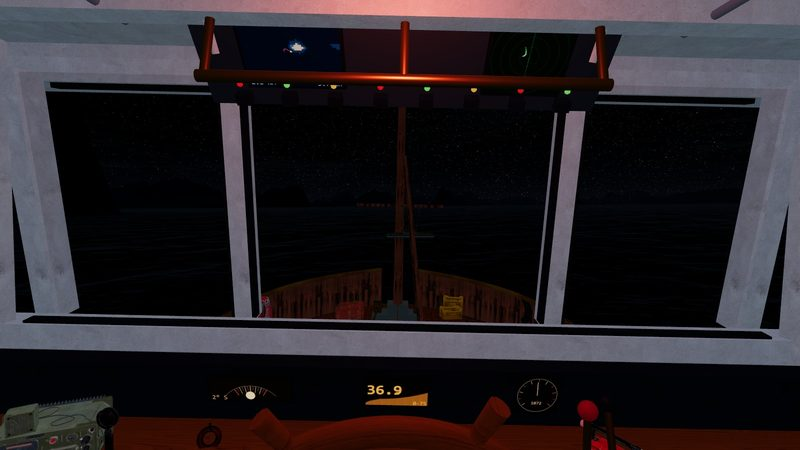
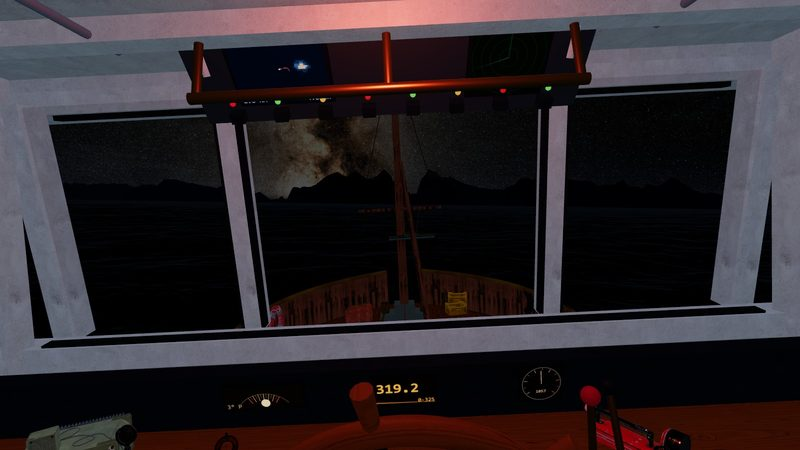
Trawler: the Milky Way, from the same NASA map the repo already ships
The night sky had the real Hipparcos catalogue and the real LRO moon but
nothing behind them, so it read as a dusting of points over a bare
atmosphere. Hangar draws NASA's Deep Star Maps 2020 and the older scenes at
least paint a band; this one had neither, and I had ported Hangar's star and
moon code and left its Milky Way behind.

html/assets/milkyway.webp is the starless equatorial map from the same NASA
SVS release (the Hipparcos and Tycho stars taken back out of it, so the bright
ones are not drawn twice), packed by tools/prepare-sky.py to 4096 x 2048 and
4 MB rather than Hangar's 8192 x 4096 and 38 MB: the sky here is a strip seen
through a window, not the whole frame.

It turns with the stars. The sphere's local frame is the ICRS one with y and z
exchanged, which falls out of three's SphereGeometry putting u = 0 at local
(-1, 0, 0) against the map putting right ascension a at u = 0.5 - a / 2pi;
setClock multiplies that by the same equatorial-to-world matrix the stars and
the moon already use. Checked end to end rather than by eye: a world direction
run back through the mesh's own matrix lands on the galactic centre at
u 0.760, v 0.661 reading 196 of 255, on the two galactic poles reading 32 and
36, and on Carina and Cygnus in between - and the packer prints the same for
the image on disk, where mean brightness falls from 170 at the galactic plane
to 37 at the poles. So at latitude 62 in September the band lies up through
[…]

diff --git a/trawler/html/js/sky.js b/trawler/html/js/sky.js
@@ -540,6 +540,31 @@ void main() {
 }
 `;
 
+// The brightness of the Milky Way map's stored value, on the screen, before the exposure divides
+// it. The map holds radiance / 0.2 sRGB-encoded (trawler/tools/prepare-sky.py).
+//
+// Set by measurement. On a moonless night at this gain, looking at Cygnus 54 degrees up: the
+// frame's median pixel is 4 of 255 and its ninetieth percentile 16, against 3.3 and 10.3 for a
+// frame the same size 36 degrees off the galactic plane. Turn the band off and the same frame
+// falls to 0.23, so out here it is the Milky Way, not the airglow, that lights the night sky -
+// which is what a sea with no coast to windward actually looks like. The map's own plane-to-pole
+// ratio of 4.4 survives into the render, and nothing in the band is near clipping.
+const MW_GAIN = 0.075;
+
+/**
+ * The Milky Way sphere's own frame, as a matrix taking its local axes to ICRS. three's
+ * SphereGeometry wraps u round its local +y and puts u = 0 at local (-1, 0, 0); the map puts
+ * right ascension a at u = 0.5 - a / 2pi with north at the top. Equating the two: local +y is the
+ * north celestial pole (ICRS +z), and the local x and z axes are ICRS x and y. So the frame is the
+ * identity with y and z exchanged, and setClock multiplies it by the equatorial-to-world matrix.
+ */
+const MW_FRAME = new THREE.Matrix4().set(
+  1, 0, 0, 0,
+  0, 0, 1, 0,
+  0, 1, 0, 0,
+  0, 0, 0, 1,
+);
+
 // Stars: the Hipparcos catalogue, each at its measured place, V magnitude and B-V colour. The
 // brightness step is 1.5x a magnitude rather than the true 2.512x, so the naked-eye stars stand
 // out while the faint ones still dust the sky (as Hangar's do).
@@ -651,6 +676,7 @@ export class Sky {
     this.dayTime = 0; // 0..1 of the day; set by setClock
     this.cycling = true;
     this.buildDome();
+    this.buildMilkyWay(opts.assetBase);
     this.buildMoon(opts.assetBase);
     if (opts.stars) this.buildStars(opts.stars);
 
@@ -738,6 +764,62 @@ export class Sky {
     this.scene.add(this.stars);
   }
 
+  /**
+   * The Milky Way: NASA's Deep Star Maps 2020, the band with the Hipparcos and Tycho stars taken
+   * back out of it, so it lies under the catalogue stars instead of drawing the bright ones twice.
+   *
+   * The map is equirectangular in equatorial (ICRS) coordinates - RA 0 down the middle with RA
+   * rising to the left, north along the top row - and three's SphereGeometry lays its own uvs out
+   * so that u = 0 is the ICRS direction (-1, 0, 0) and u rises the other way round. Working that
+   * through, a texel at right ascension a sits at u = 0.5 - a / 2pi, and the sphere's local frame
+   * is the ICRS one with y and z swapped. MW_FRAME is that swap; setClock multiplies it by the
+   * same equatorial-to-world matrix the stars and the moon use, so all three turn together.
+   */
+  buildMilkyWay(assetBase) {
+    const base = assetBase ?? new URL('../assets/', import.meta.url).href;
+    this.mwMap = new THREE.TextureLoader().load(base + 'milkyway.webp', () => {
+      if (this.milkyWay) this.milkyWay.visible = true;
+      this.applyExposure();
+    });
+    this.mwMap.colorSpace = THREE.SRGBColorSpace;
+    this.mwMap.anisotropy = 8;
+    this.mwMap.wrapS = THREE.RepeatWrapping;
+    this.mwMat = new THREE.ShaderMaterial({
+      uniforms: { uMap: { value: this.mwMap }, uGain: { value: 0 } },
+      depthWrite: false, depthTest: true, transparent: true, blending: THREE.AdditiveBlending,
+      side: THREE.BackSide,
+      vertexShader: /* glsl */ `
+        varying vec2 vUv; varying vec3 vDir;
+        void main() {
+          vUv = uv;
+          vDir = mat3( modelMatrix ) * position;
+          vec4 p = projectionMatrix * vec4( mat3( viewMatrix ) * vDir, 1.0 );
+          p.z = p.w * 0.999995;
+          gl_Position = p;
+        }`,
+      fragmentShader: /* glsl */ `
+        uniform sampler2D uMap; uniform float uGain;
+        varying vec2 vUv; varying vec3 vDir;
+        void main() {
+          // Below the horizon there is sea, not sky - the same cut the stars take.
+          float above = smoothstep( -0.02, 0.03, normalize( vDir ).y );
+          gl_FragColor = vec4( texture2D( uMap, vUv ).rgb * uGain * above, 1.0 );
+          #include <tonemapping_fragment>
+          #include <colorspace_fragment>
+        }`,
+    });
+    this.milkyWay = new THREE.Mesh(new THREE.SphereGeometry(1, 96, 48), this.mwMat);
+    this.milkyWay.frustumCulled = false;
+    this.milkyWay.matrixAutoUpdate = false;
+    this.milkyWay.visible = false;
+    // After the sky dome (900), which is opaque, and with the stars and the moon over it.
+    this.milkyWay.renderOrder = 900.5;
+    this.milkyWay.layers.set(LAYER.DEFAULT);
+    this.milkyWay.layers.enable(LAYER.WORLD);
+    this.milkyWay.layers.enable(LAYER.SKYONLY);
+    this.scene.add(this.milkyWay);
+  }
+
   buildMoon(assetBase) {
     const base = assetBase ?? new URL('../assets/', import.meta.url).href;
     const loader = new THREE.TextureLoader();
@@ -820,6 +902,10 @@ export class Sky {
     G.uDayTime.value = this.dayTime;
 
     if (this.stars) this.stars.matrix.copy(mat);
+    if (this.milkyWay) {
+      this.milkyWay.matrix.copy(mat).multiply(MW_FRAME);
+      this.milkyWay.matrixWorldNeedsUpdate = true;
+    }
     this.applyLights();
   }
 
@@ -989,6 +1075,14 @@ export class Sky {
       this.starMat.uniforms.uStarCull.value = 0.0015 / e;
       this.stars.visible = this.starMat.uniforms.uStarGain.value * e > 0.012;
     }
+    if (this.mwMat) {
+      // The band washes out faster than the stars do: a star is a point and survives a brightening
+      // sky for a while, where the Milky Way is a low-contrast smear over a large solid angle and
+      // is the first thing to go. Hence the same wash raised to a power.
+      const wash = clamp01(1 - smoothstep(0.0012, 0.03, lum));
+      this.mwMat.uniforms.uGain.value = (MW_GAIN * wash * wash) / e;
+      if (this.milkyWay) this.milkyWay.visible = !!this.mwMap?.image && this.mwMat.uniforms.uGain.value * e > 0.0006;
+    }
     if (this.moon) {
       const my = this.moonDir?.y ?? -1;
       // The moon is bright enough to stay visible by day, but it should never bloom at night.
@@ -1014,6 +1108,7 @@ export class Sky {
     this.domeMat.dispose();
     this.scene.remove(this.dome);
     if (this.stars) { this.stars.geometry.dispose(); this.starMat.dispose(); this.scene.remove(this.stars); }
+    if (this.milkyWay) { this.milkyWay.geometry.dispose(); this.mwMat.dispose(); this.mwMap?.dispose(); this.scene.remove(this.milkyWay); }
     if (this.moon) {
       this.moon.geometry.dispose();
       this.moonMat.dispose();

diff --git a/trawler/html/index.html b/trawler/html/index.html
@@ -13,31 +13,31 @@
 { "imports": {
   "three": "https://cdn.jsdelivr.net/npm/three@0.170.0/build/three.module.js",
   "three/addons/": "https://cdn.jsdelivr.net/npm/three@0.170.0/examples/jsm/",
-  "./js/app.js": "./js/app.js?v=10",
-  "./js/scene.js": "./js/scene.js?v=10",
-  "./js/util.js": "./js/util.js?v=10",
-  "./js/shaders.js": "./js/shaders.js?v=10",
-  "./js/governor.js": "./js/governor.js?v=10",
-  "./js/post.js": "./js/post.js?v=10",
-  "./js/sky.js": "./js/sky.js?v=10",
-  "./js/ocean.js": "./js/ocean.js?v=10",
-  "./js/oceanspec.js": "./js/oceanspec.js?v=10",
-  "./js/seastate.js": "./js/seastate.js?v=10",
-  "./js/waves.js": "./js/waves.js?v=10",
-  "./js/boat.js": "./js/boat.js?v=10",
-  "./js/mathutil.js": "./js/mathutil.js?v=10",
-  "./js/fft.js": "./js/fft.js?v=10",
-  "./js/nav.js": "./js/nav.js?v=10",
-  "./js/terrain.js": "./js/terrain.js?v=10",
-  "./js/flora.js": "./js/flora.js?v=10",
-  "./js/pilot.js": "./js/pilot.js?v=10",
-  "./js/instruments.js": "./js/instruments.js?v=10",
-  "./js/deck.js": "./js/deck.js?v=10",
-  "./js/glass.js": "./js/glass.js?v=10",
-  "./js/wake.js": "./js/wake.js?v=10",
-  "./js/wildlife.js": "./js/wildlife.js?v=10",
-  "./js/materials.js": "./js/materials.js?v=10",
-  "./js/assets.js": "./js/assets.js?v=10"
+  "./js/app.js": "./js/app.js?v=11",
+  "./js/scene.js": "./js/scene.js?v=11",
+  "./js/util.js": "./js/util.js?v=11",
+  "./js/shaders.js": "./js/shaders.js?v=11",
+  "./js/governor.js": "./js/governor.js?v=11",
+  "./js/post.js": "./js/post.js?v=11",
+  "./js/sky.js": "./js/sky.js?v=11",
+  "./js/ocean.js": "./js/ocean.js?v=11",
+  "./js/oceanspec.js": "./js/oceanspec.js?v=11",
+  "./js/seastate.js": "./js/seastate.js?v=11",
+  "./js/waves.js": "./js/waves.js?v=11",
+  "./js/boat.js": "./js/boat.js?v=11",
+  "./js/mathutil.js": "./js/mathutil.js?v=11",
+  "./js/fft.js": "./js/fft.js?v=11",
+  "./js/nav.js": "./js/nav.js?v=11",
+  "./js/terrain.js": "./js/terrain.js?v=11",
+  "./js/flora.js": "./js/flora.js?v=11",
+  "./js/pilot.js": "./js/pilot.js?v=11",
+  "./js/instruments.js": "./js/instruments.js?v=11",
+  "./js/deck.js": "./js/deck.js?v=11",
+  "./js/glass.js": "./js/glass.js?v=11",
+  "./js/wake.js": "./js/wake.js?v=11",
+  "./js/wildlife.js": "./js/wildlife.js?v=11",
+  "./js/materials.js": "./js/materials.js?v=11",
+  "./js/assets.js": "./js/assets.js?v=11"
 } }
 </script>
 </head>
@@ -73,6 +73,6 @@
 <div id="hint">Move the mouse to look around the pilot house · click the sea to alter course · click a lever, switch or screen to work it</div>
 <div id="loadbar" role="progressbar" aria-label="Loading assets" aria-valuemin="0" aria-valuemax="100" aria-valuenow="0"></div>
 <div id="error" hidden></div>
-<script type="module" src="js/app.js?v=10"></script>
+<script type="module" src="js/app.js?v=11"></script>
 </body>
 </html>

diff --git a/trawler/tools/prepare-sky.py b/trawler/tools/prepare-sky.py
@@ -1,0 +1,89 @@
+#!/usr/bin/env python3
+"""Turn NASA's starless Milky Way map into the WebP the page loads (needs numpy, Pillow, OpenEXR).
+
+    python trawler/tools/prepare-sky.py [--size 4096]
+
+Input, downloaded by hand into trawler/tools/raw/sky/ (git-ignored):
+
+    milkyway_2020_4k.exr    NASA SVS Deep Star Maps 2020, the Milky Way with the Hipparcos and
+                            Tycho stars taken out, in equatorial (ICRS) coordinates, 4096 x 2048
+                            https://svs.gsfc.nasa.gov/4851/
+
+Output (committed):
+
+    html/assets/milkyway.webp   4096 x 2048 equirectangular, RA 0 at the centre with RA rising to
+                                the left, north at the top row, linear radiance / MW_SCALE stored
+                                sRGB-encoded.
+
+The stars in this scene are the Hipparcos catalogue drawn as points, so the starless version of the
+map is the one that is wanted: the other one would draw the bright stars a second time, as blurs
+under the real ones.
+
+Why the top row is north and no flip is applied. three's SphereGeometry puts uv.y = 1 at +y, and a
+THREE.Texture uploads with flipY = true, which maps the image's top row to v = 1. So an image with
+north at the top arrives at the top of the sphere. (Hangar's copy is KTX2, which cannot be flipped
+at upload, so its encoder flips the rows instead; this one does not need to.)
+
+MW_SCALE is the radiance that is stored as 1.0. It is Hangar's number, and it is a clip rather than
+a normalisation: the brightest hundredth of a per cent of the map goes over.
+"""
+import os
+import sys
+
+import numpy as np
+from PIL import Image
+
+HERE = os.path.dirname(os.path.abspath(__file__))
+RAW = os.path.join(HERE, 'raw', 'sky')
+OUT = os.path.join(HERE, '..', 'html', 'assets')
+
+MW_SCALE = 0.2
+
+
+def srgb(x):
+    """Linear to sRGB, the exact piecewise curve."""
+    x = np.clip(x, 0.0, 1.0)
+    return np.where(x <= 0.0031308, x * 12.92, 1.055 * np.power(x, 1.0 / 2.4) - 0.055)
+
+
+def main(size=4096):
+    import OpenEXR
+
+    src = os.path.join(RAW, 'milkyway_2020_4k.exr')
+    if not os.path.exists(src):
+        sys.exit('missing %s - see the docstring for where to download it' % src)
+    rgb = OpenEXR.File(src).channels()['RGB'].pixels.astype(np.float32)
+    h, w = rgb.shape[:2]
+    over = float((rgb.max(axis=2) > MW_SCALE).mean())
+    print('  read %d x %d, max %.4f, %.4f%% of texels clip at MW_SCALE %.2f'
+          % (w, h, rgb.max(), over * 100, MW_SCALE))
+
+    img = Image.fromarray(np.round(srgb(rgb / MW_SCALE) * 255).astype(np.uint8), 'RGB')
+    if img.width != size:
+        img = img.resize((size, size // 2), Image.LANCZOS)
+    os.makedirs(OUT, exist_ok=True)
+    dst = os.path.join(OUT, 'milkyway.webp')
+    img.save(dst, 'WEBP', quality=92, method=6)
+    print('  assets/milkyway.webp: %d x %d, %.2f MB' % (img.width, img.height, os.path.getsize(dst) / 1e6))
+
+    # The galactic centre is at RA 17h45m40s, dec -28.94, and it is by a long way the brightest
+    # part of the map. Finding it where it belongs is what says the image's own convention - RA 0
+    # at the centre, RA rising to the left, north at the top - is the one this file assumes.
+    ra, dec = (17 + 45 / 60 + 40 / 3600) * 15.0, -28.94
+    u = (0.5 - ra / 360.0) % 1.0
+    v = (90.0 - dec) / 180.0
+    a = np.asarray(img.convert('L'), dtype=np.float32)
+    gy, gx = int(v * a.shape[0]), int(u * a.shape[1])
+    patch = a[max(gy - 24, 0):gy + 24, max(gx - 24, 0):gx + 24].mean()
+    iy, ix = np.unravel_index(int(np.argmax(a)), a.shape)
+    print('  galactic centre expected at u %.3f v %.3f (px %d, %d): mean %.0f of 255' % (u, v, gx, gy, patch))
+    print('  brightest texel in the map: px %d, %d -> RA %.1f dec %+.1f'
+          % (ix, iy, ((0.5 - ix / a.shape[1]) % 1.0) * 360.0, 90.0 - 180.0 * iy / a.shape[0]))
+    print('  map mean %.1f, galactic-centre patch is %.1fx the mean' % (a.mean(), patch / max(a.mean(), 1e-6)))
+
+
+if __name__ == '__main__':
+    n = 4096
+    if '--size' in sys.argv:
+        n = int(sys.argv[sys.argv.index('--size') + 1])
+    main(n)

diff --git a/trawler/tools/README.md b/trawler/tools/README.md
@@ -56,12 +56,25 @@ for a in seadogs_compass:compass vintage_radio_transceiver:vhf binoculars:binocu
   node $T/fetch.mjs model "${a%%:*}" "${a##*:}"
 done
 python $T/prepare-models.py            # raw/models/* -> html/assets/models/*
+
+# The Milky Way: NASA SVS Deep Star Maps 2020, the starless equatorial map, public domain.
+mkdir -p $T/raw/sky
+curl -L -o $T/raw/sky/milkyway_2020_4k.exr \
+  https://svs.gsfc.nasa.gov/vis/a000000/a004800/a004851/milkyway_2020_4k.exr
+python $T/prepare-sky.py               # raw/sky/*.exr -> html/assets/milkyway.webp
 ```
+
+`prepare-sky.py` needs an EXR reader: `pip install OpenEXR`. It prints where it finds the galactic
+centre in the packed image, which is the check that the map's own convention (RA 0 at the centre,
+RA rising to the left, north along the top) is the one the page assumes.
 
 Each `fetch.mjs` run records the asset's name, author, licence and source URL in
 `html/assets/manifest.json`, which is what the README's credits table mirrors and what the page reads
 at load time. The sky's two moon maps and `html/data/stars.bin` are copied from the other scenes in
-this repository rather than refetched; their provenance is in the README.
+this repository rather than refetched; their provenance is in the README. `milkyway.webp` is built
+here, from the same NASA release Hangar uses, at a quarter of Hangar's width: the sky in this scene
+is a strip seen through a window rather than the whole frame, so 4096 x 2048 is enough and it costs
+4 MB instead of 38.
 
 ## What each script does
 
@@ -71,6 +84,7 @@ this repository rather than refetched; their provenance is in the README.
 | `manifest-lib.mjs` | the shared bits: paths, slugs, the manifest read/write, HTTP with retries |
 | `pack.py` | a raw material folder to the three WebP maps the page loads: `color` (sRGB, quality 92), `normal` (lossless — a normal map is a vector field and lossy chroma puts facets in it), `orm` (AO / roughness / metalness packed into R / G / B, quality 95) |
 | `prepare-models.py` | a raw glTF prop to `html/assets/models/<name>/`, with its PNG maps converted to WebP and the glTF's image URIs repointed. The geometry is left exactly as downloaded: these are a handful of objects seen close up, not a forest |
+| `prepare-sky.py` | NASA's starless Milky Way EXR to `html/assets/milkyway.webp`: linear radiance divided by 0.2 and sRGB-encoded, 4096 x 2048, north along the top row (no flip, because a `THREE.Texture` uploads with `flipY` and SphereGeometry puts v = 1 at +y) |
 
 Height maps are deliberately not packed. Hangar's lesson was that parallax on a surface seen at a
 grazing angle smears and shimmers, and that relief the camera gets close to is better built as
@@ -86,6 +100,7 @@ looked at:
 | `trawler.propSizes()` | the bounding box of every scanned prop, in metres, in the pilot house's own frame. A prop whose numbers do not read like the real object is placed or scaled wrong |
 | `trawler.verifyOcean()` | the sea the GPU draws against the sea the hull rides, at random points |
 | `trawler.shaderErrors()` | any shader that failed to compile, by name |
+| `scene.sky.skyMatrix`, `scene.sky.milkyWay.matrix` | the equatorial-to-world matrix and the band's own frame: invert the second and a world direction comes back as a texel of the map, which is how the band's orientation was checked against the galactic centre and the two galactic poles |
 | `trawler.bench(n)` | milliseconds a frame, averaged over n frames |
 | `trawler.look(x, y, z, yaw, pitch, fov)` / `trawler.at(...)` | puts the camera somewhere and renders one frame |
 | `trawler.run(seconds)` | steps the simulation at 1/60 s without waiting for real time |

diff --git a/trawler/README.md b/trawler/README.md
@@ -114,9 +114,20 @@ the stars, the moon, the instruments, the nav lights, the channel marks — is s
 brightness on the screen and divided by that exposure, because a lamp that is right at noon is a
 white hole at midnight otherwise.
 
-Stars are the Hipparcos catalogue at their measured positions, magnitudes and colours. The moon is
-the Lunar Reconnaissance Orbiter's colour mosaic and its height model, with the real libration and
-phase. Cumulus is a volumetric march; cirrus is a sheet above it; both are lit by the same sun.
+Stars are the Hipparcos catalogue at their measured positions, magnitudes and colours. Behind them
+is NASA's Deep Star Maps 2020 — the real Milky Way, built from Gaia DR2, with the Hipparcos and
+Tycho stars taken back out of it so the bright ones are not drawn twice. It is turned by the same
+equatorial-to-world matrix as the stars and the moon, so the band stands where it really stands: at
+latitude 62 in September it lies up through Cygnus in the west after midnight, and the galactic
+centre never clears the horizon. The moon is the Lunar Reconnaissance Orbiter's colour mosaic and
+its height model, with the real libration and phase. Cumulus is a volumetric march; cirrus is a
+sheet above it; both are lit by the same sun.
+
+How bright the band is, checked rather than chosen: looking at Cygnus 54 degrees up on a moonless
+night, the frame's median pixel is 4 of 255 and its ninetieth percentile 16, against 3.3 and 10.3
+for a frame the same size 36 degrees off the galactic plane; with the band switched off the same
+frame falls to 0.23, which is to say that out here it is the Milky Way and not the airglow that
+lights the night sky. It costs 0.3 ms a frame.
 
 ## The fjord
 
@@ -218,7 +229,8 @@ every surface in the house is within two metres of the viewer.
 ## Credits
 
 Every asset the page loads is listed in `html/assets/manifest.json` with its source, author and
-licence; this table mirrors it. Thanks to Poly Haven and ambientCG for the CC0 scans, to NASA's Scientific
+licence; this table mirrors it. Thanks to Poly Haven and ambientCG for the CC0 scans, to NASA GSFC's
+Scientific Visualization Studio (and ESA/Gaia/DPAC) for the Milky Way, to NASA's Scientific
 Visualization Studio for the CGI Moon Kit, and to ESA's Hipparcos mission (via NASA HEASARC) for the
 stars.
 
@@ -259,6 +271,7 @@ stars.
 | Model | `thermos` | Plastic Thermos | PierreB3D | CC0 | https://polyhaven.com/a/plastic_thermos |
 | Model | `torch` | Vintage Flashlight | Omar M. El-Safy | CC0 | https://polyhaven.com/a/vintage_flashlight |
 | Model | `vhf` | Vintage Radio Transceiver | Mateusz Sadek | CC0 | https://polyhaven.com/a/vintage_radio_transceiver |
+| Image | `milkyway.webp` | Deep Star Maps 2020, the Milky Way without the Hipparcos/Tycho stars, equatorial, resampled to 4096 x 2048 | NASA/Goddard Space Flight Center Scientific Visualization Studio; Gaia DR2: ESA/Gaia/DPAC | PD | https://svs.gsfc.nasa.gov/4851 |
 | Image | `lroc_color_2k.jpg` | CGI Moon Kit, LROC WAC colour mosaic | NASA's Scientific Visualization Studio | PD | https://svs.gsfc.nasa.gov/4720 |
 | Image | `ldem_3_8bit.jpg` | CGI Moon Kit, LOLA displacement map | NASA's Scientific Visualization Studio | PD | https://svs.gsfc.nasa.gov/4720 |
 | Data | `data/stars.bin` | Hipparcos Main Catalogue (ESA 1997), HEASARC copy: positions, V magnitudes, B-V colours | ESA Hipparcos mission; NASA HEASARC | PD | https://heasarc.gsfc.nasa.gov/W3Browse/star-catalog/hipparcos.html |
